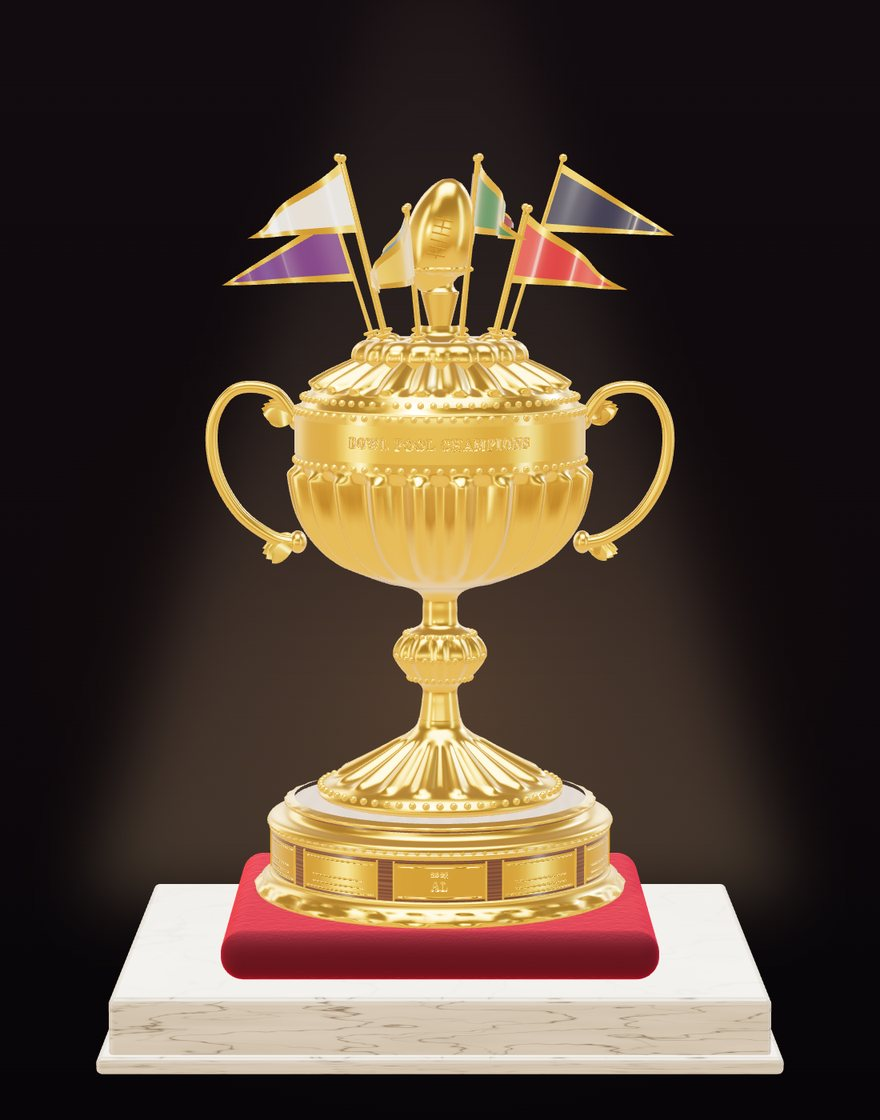
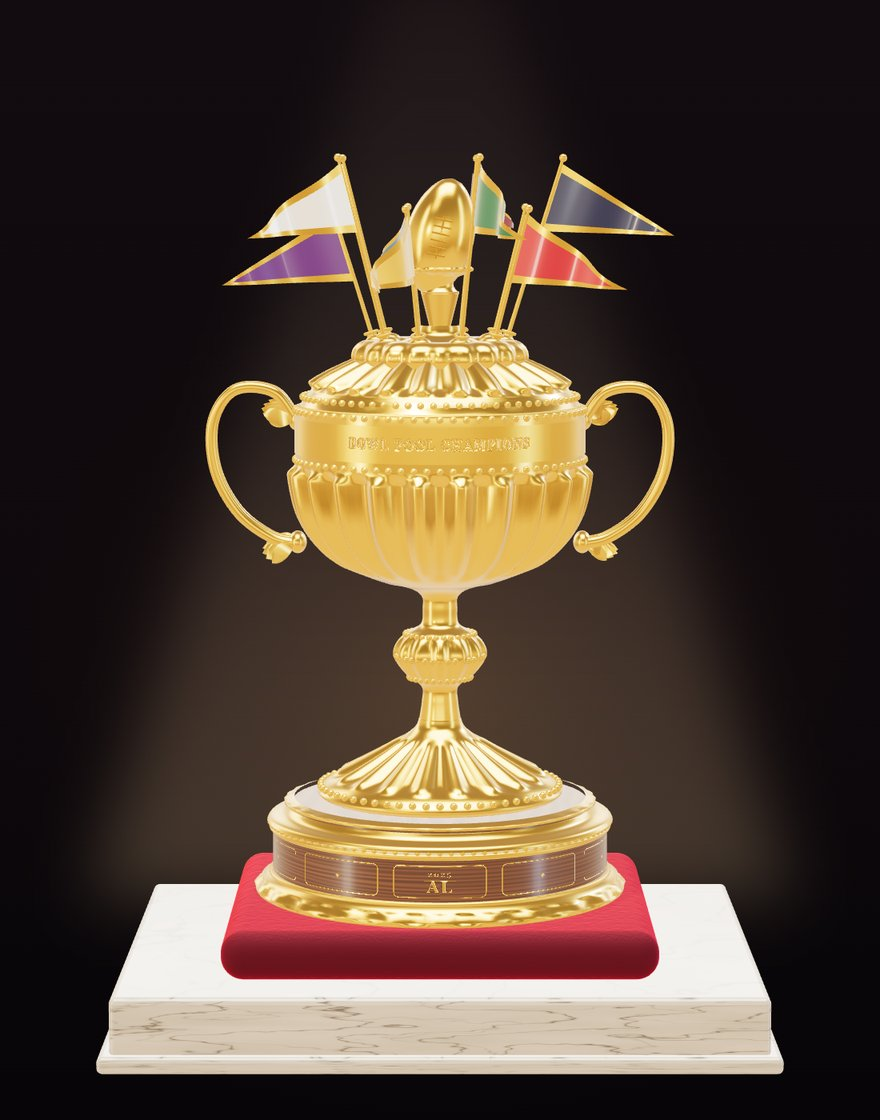
Trophy pictures: names inlaid in the trophies, a readable Survivor chip

Changed region(s): [[0.3068, 0.75, 0.7057, 0.8125]]

diff --git a/src/app/admin/trophy-room/page.tsx b/src/app/admin/trophy-room/page.tsx
@@ -10,11 +10,11 @@ type Champion = { playerId: string; name: string };
 type Season = { seasonYear: number; pickem: Champion[] | null; survivor: Champion[] | null; bowl: Champion[] | null };
 type Row = { playerId: string; name: string; ab: number; h: number; avg: number | null; qualified: boolean };
 
-// The three trophies, rendered once as pictures. Each plaque row is baked into the picture, so a new season needs a new render.
+// The three trophies, rendered once as pictures. Each champion's name is inlaid in the picture, so a new season needs a new render.
 const display = [
-  { src: "/trophies/pickem.jpg", name: "Pick’em", note: "The pillar and its gold exoskeleton. Twelve plates, two on each face of the hexagon." },
-  { src: "/trophies/bowl.jpg", name: "Bowl Pool", note: "The pennant cup. Ten plates around the drum." },
-  { src: "/trophies/survivor.jpg", name: "Survivor", note: "The crystal spade and its chip. Five plates." },
+  { src: "/trophies/pickem.jpg", name: "Pick’em", note: "The marble pillar in its gold exoskeleton. Twelve name panels, two on each face of the hexagon." },
+  { src: "/trophies/bowl.jpg", name: "Bowl Pool", note: "The pennant cup. Ten name panels around the drum." },
+  { src: "/trophies/survivor.jpg", name: "Survivor", note: "The crystal spade and its chip. Five name panels." },
 ];
 
 const pools: Array<{ key: "pickem" | "survivor" | "bowl"; label: string }> = [

diff --git a/docs/DECISION_LOG.md b/docs/DECISION_LOG.md
@@ -1753,3 +1753,7 @@ The Bowl Card (standings table) and the Bowl picks schedule used selectors like 
 
 Last year's Bowl Pool winner (Al, 2025) was already recorded in the shared championship ledger (`pool_championships`, pool `bowl`, by an earlier migration) but not in the Bowl Pool's own tables, because that pool only started in 2026. The Trophy Room read only the Bowl Pool's own table, so it showed "Not recorded" for 2025. It now takes Bowl champions from both places and lists a player once per year however many places record them. No migration was needed; nothing in the database changed.
 
+## The trophies carry their names directly, and the Survivor chip is easier to read
+
+The three trophy pictures no longer have brass plates: each champion's year and name is inlaid in gold straight into the trophy (the hexagonal base's faces, the drum of the cup, the emerald steps), every slot has a fine gold keyline, and the slots still waiting for a champion show only the keyline. The Survivor chip was redrawn for legibility (a large, plain navy-on-ivory face with the four suits spade, heart, club, diamond across the top, SURVIVOR, then LAST MAN STANDING), and the gold beads that floated loose around it now sit on its own bezel. The names in the pictures (Steve, Al and John, all 2025) are artwork, not read from the database, so a new season needs the pictures re-rendered or the names overlaid on the page.
+
